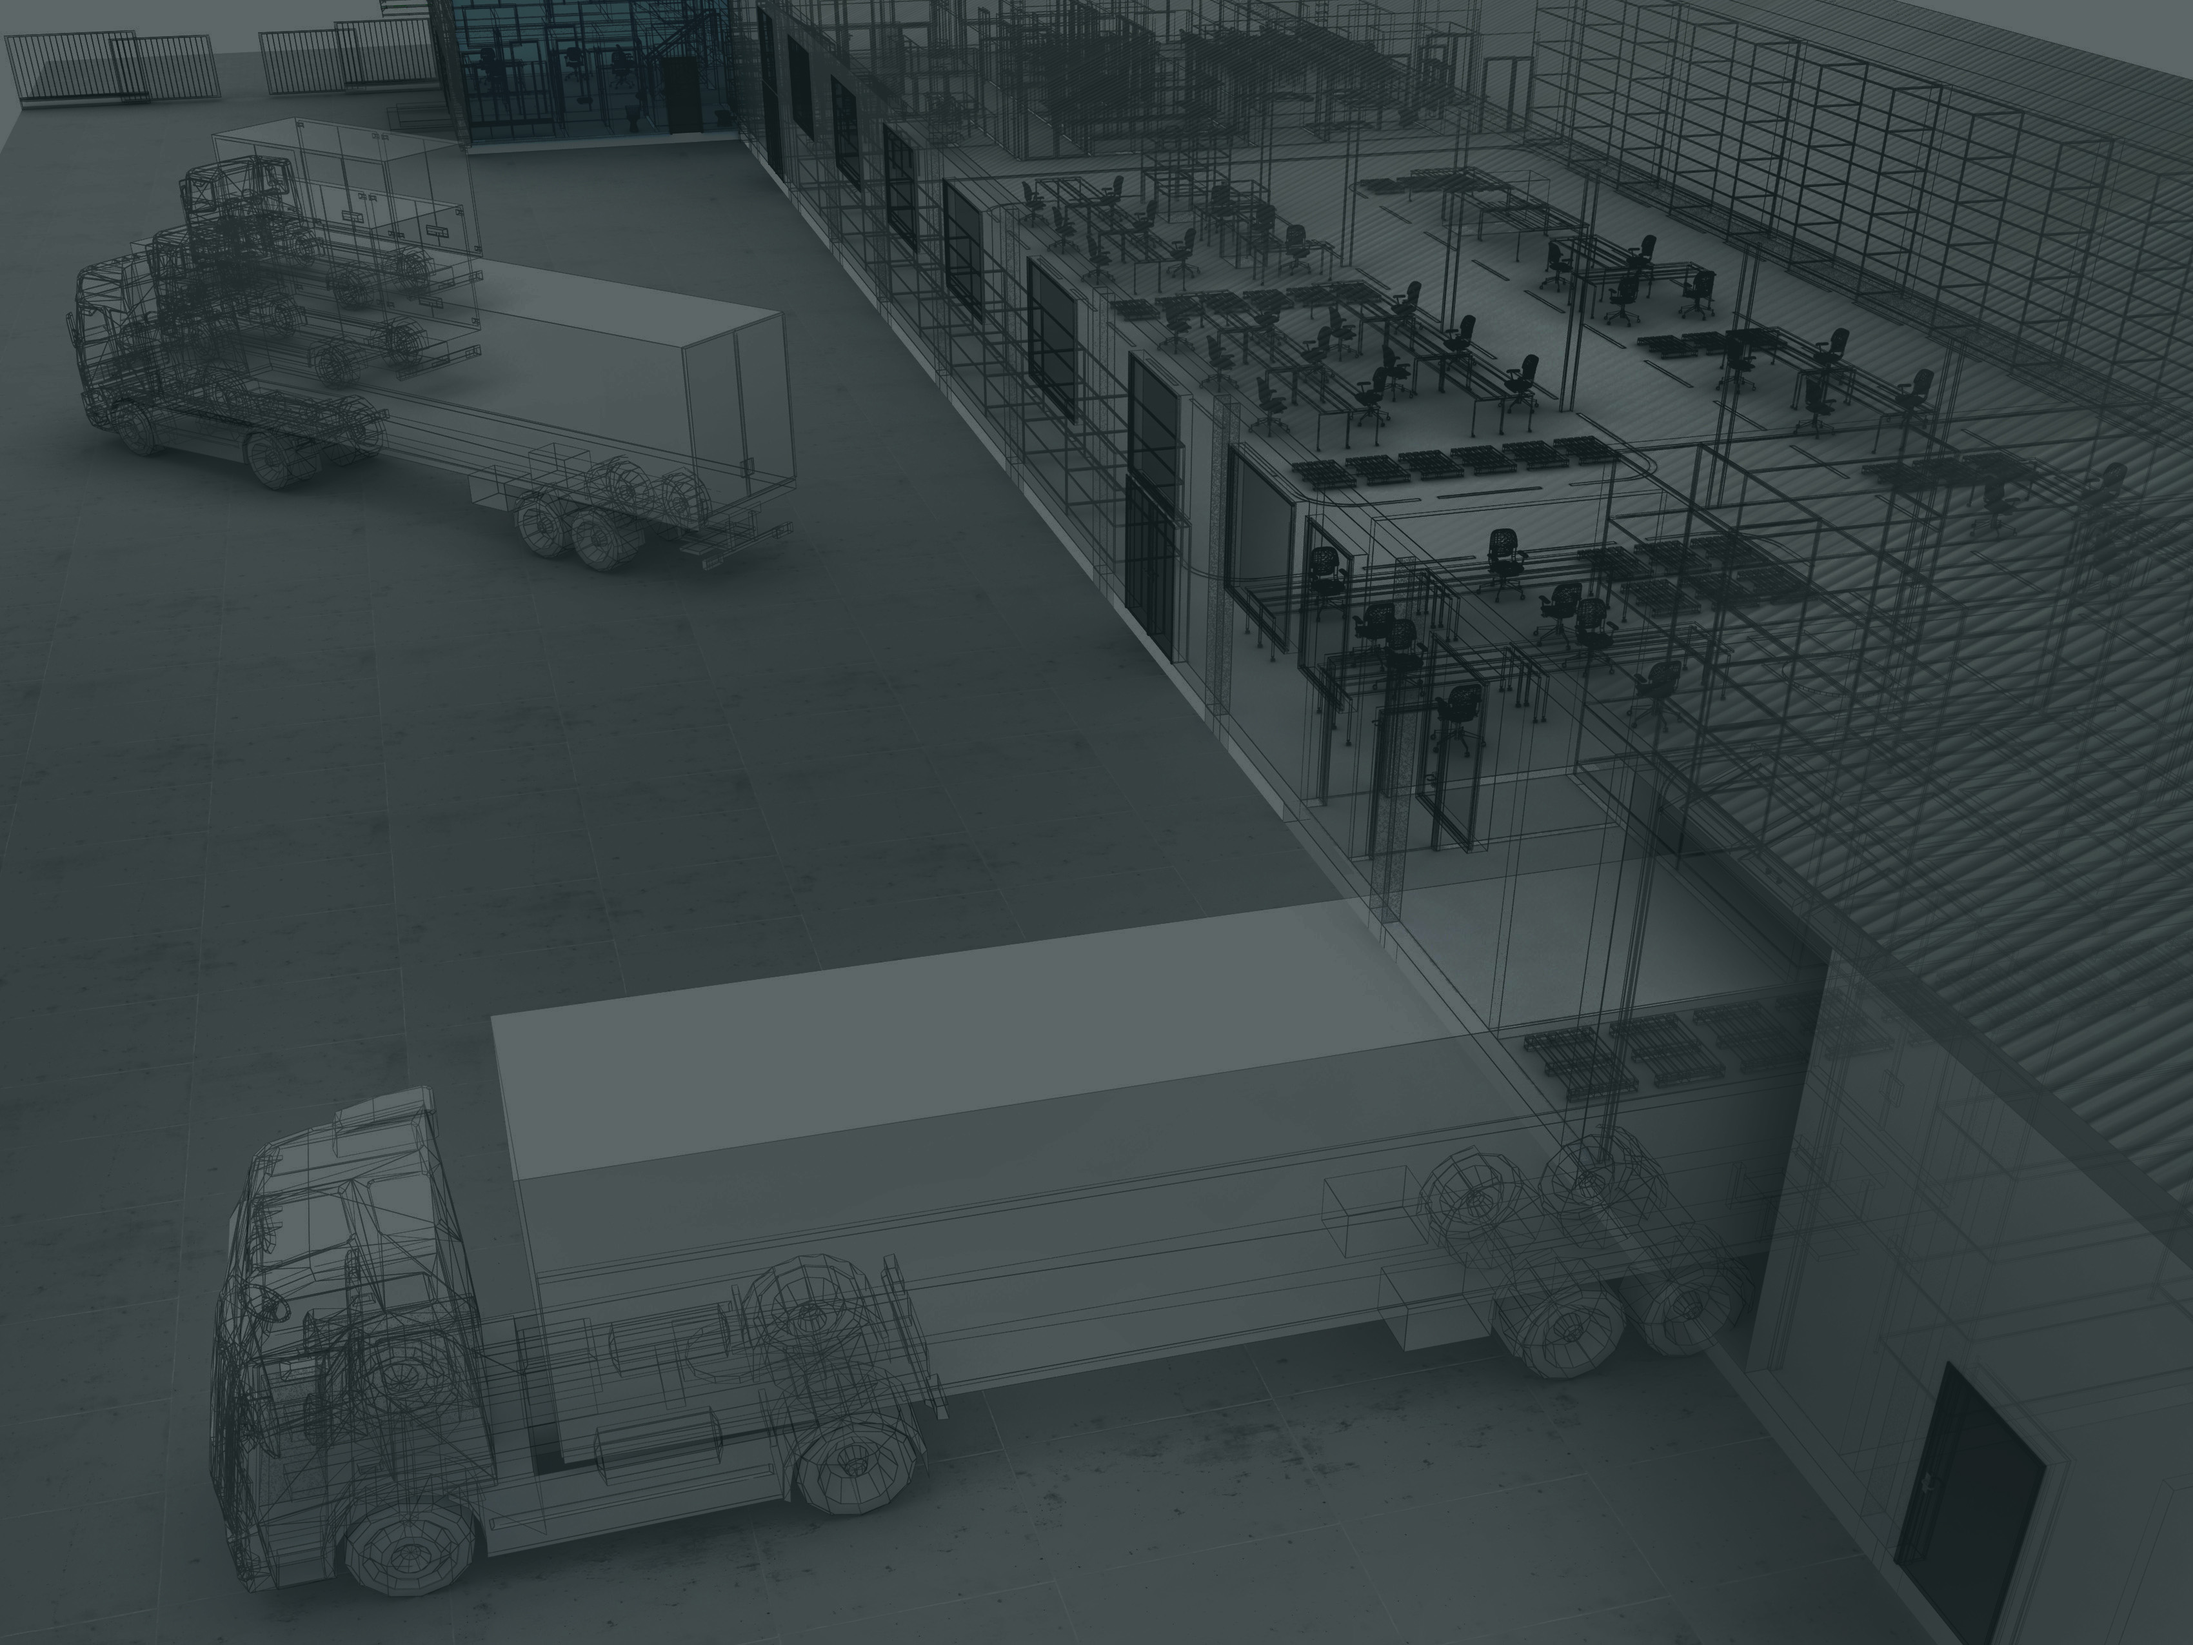
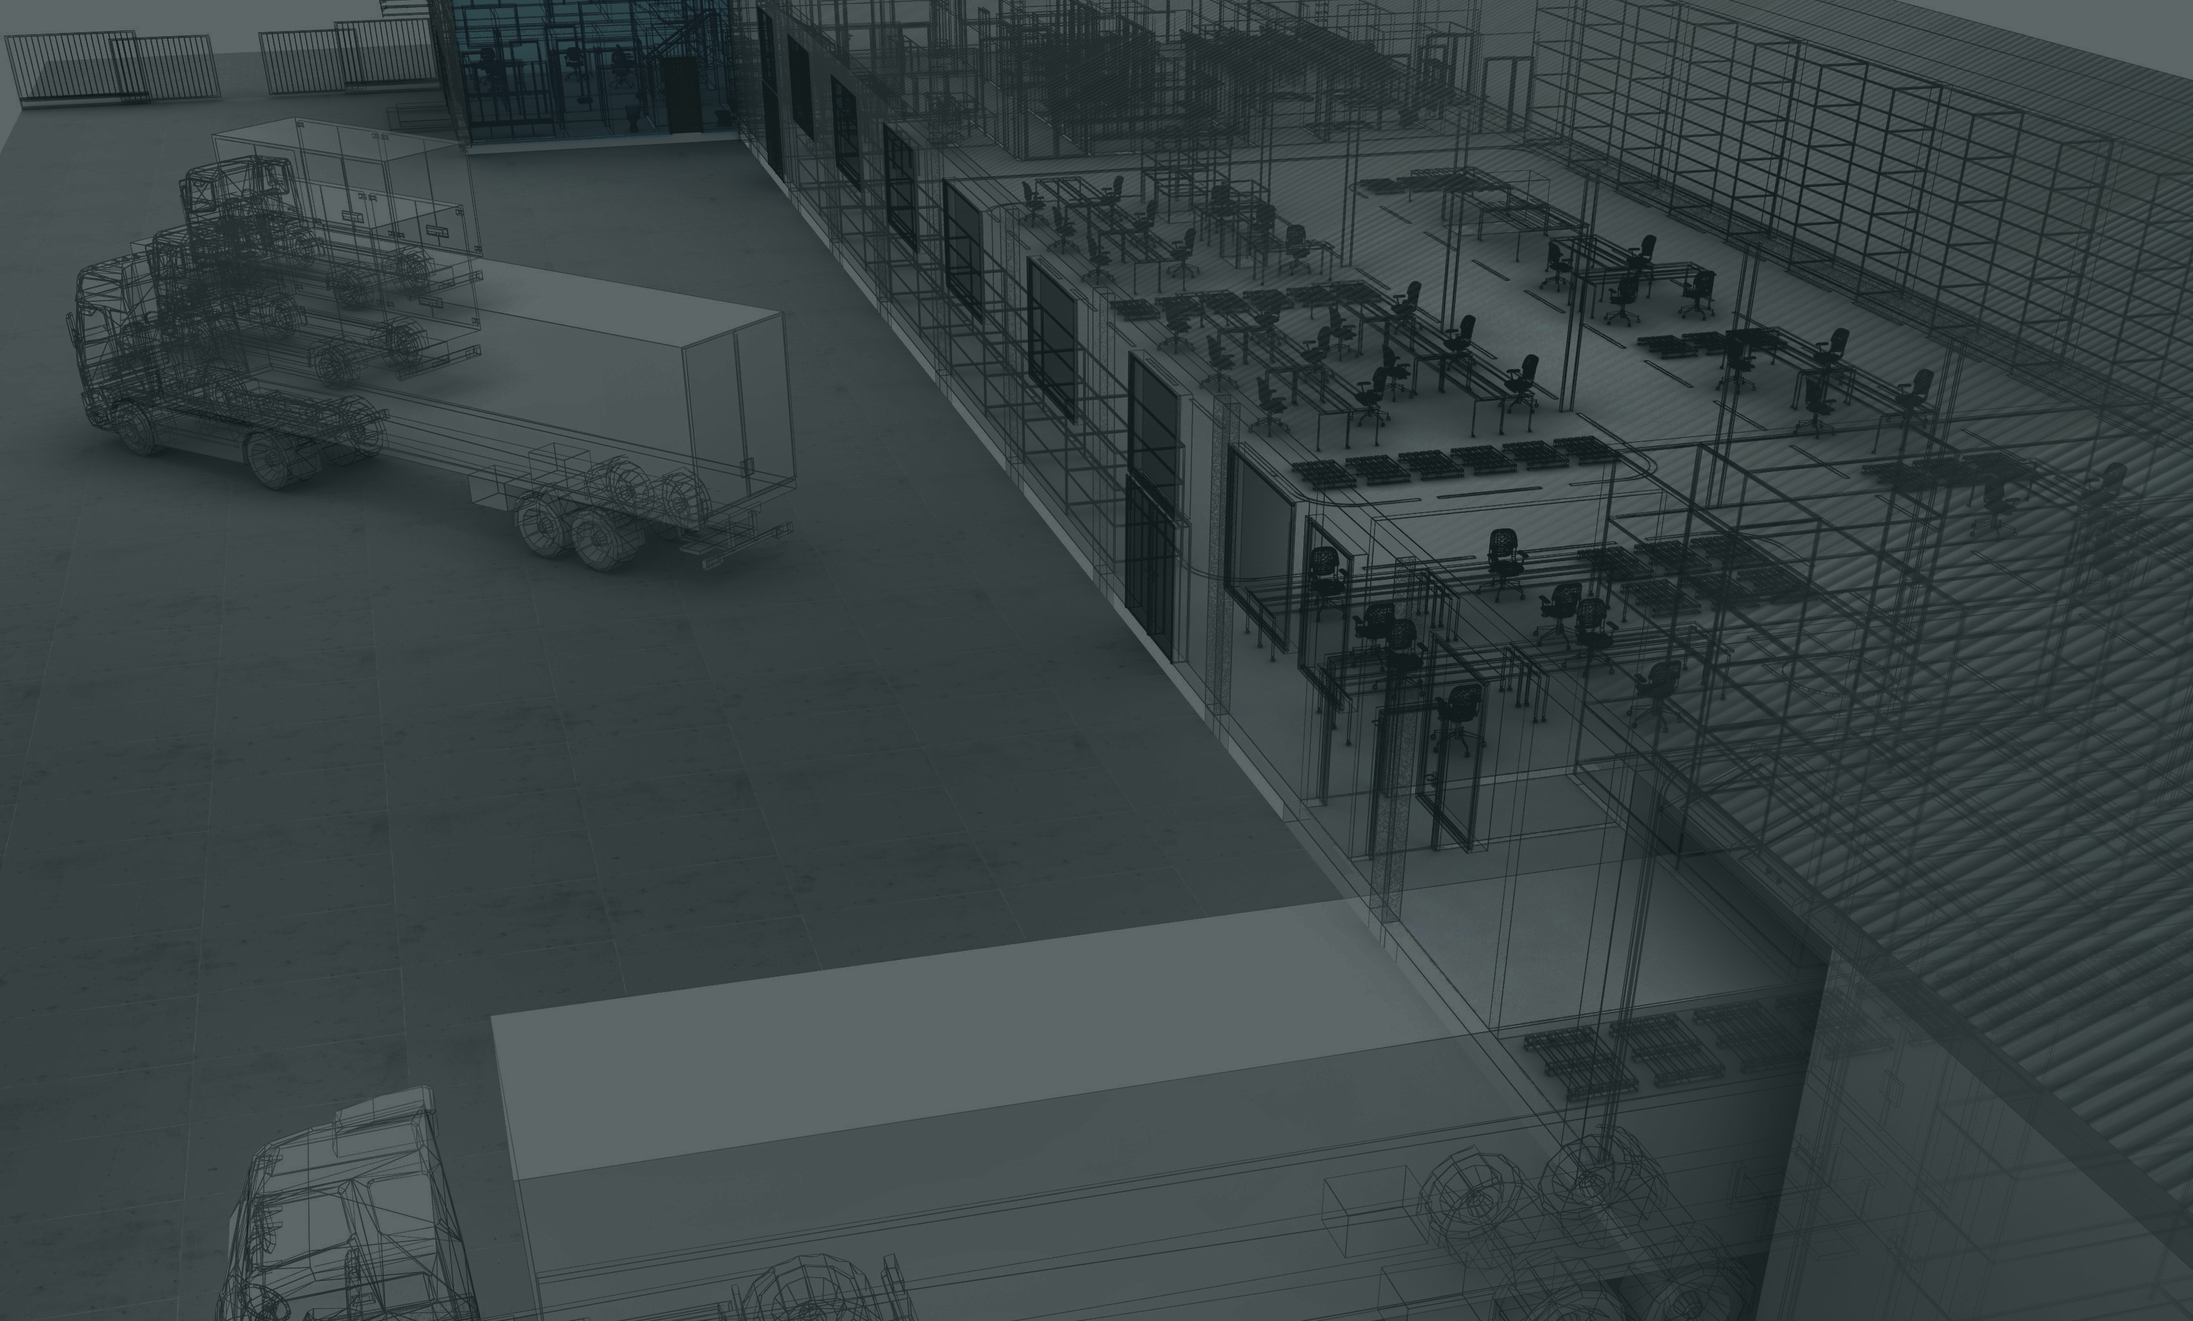
fixed subpage mobile dropdown

diff --git a/public/css/about.css b/public/css/about.css
@@ -103,7 +103,7 @@
 
 
 .AboutCover {
-  background: url(../img/logistics-dark.jpg) no-repeat center center;
+  background: url(../img/logistics-bnr.png) no-repeat center center;
   -webkit-background-size: cover;
   -moz-background-size: cover;
   -o-background-size: cover;

diff --git a/server.js b/server.js
@@ -20,7 +20,6 @@ var port = process.env.PORT || 3000;
 //   resp.send("email sent")
 // });
 
-
 app.use(express.static(__dirname + "/public"));
 
 // set the view engine to ejs
